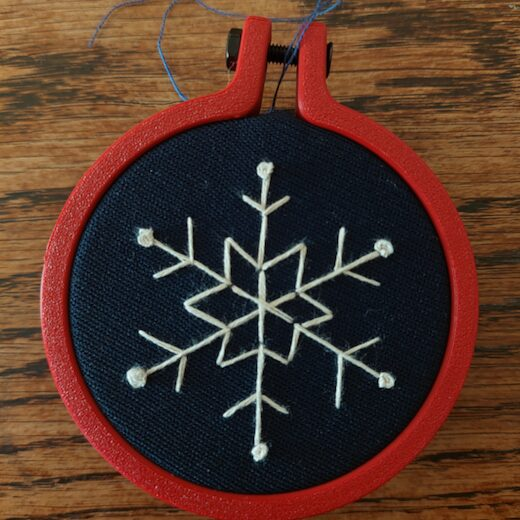
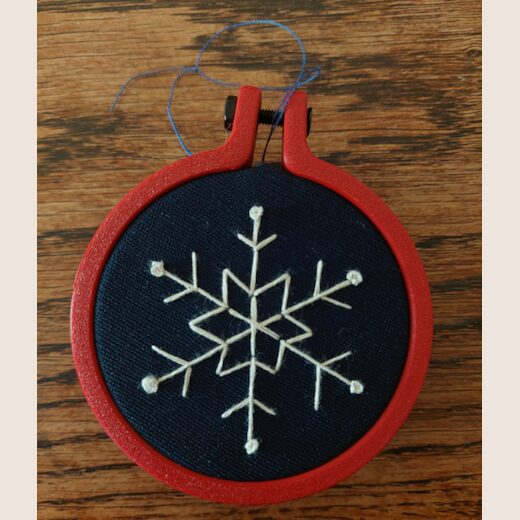
Boutique : ordre et noms des collections, carte offre 3 minis, minis en boules entières
- Collections : Noël, Personnages et animaux, Passif-agressif, Accessoires
- Noël : carte « 3 minis au choix » dans la grille (prix Supabase, prix
  normal barré calculé), à la place du bandeau
- Minis : photos montrant la boule entière avec son accroche (fond uni),
  étiquette « Boule à suspendre » ; ovales sur le même fond
- Vignettes de collection à hauteur égale (intro limitée à 2 lignes) ;
  Personnages et animaux : 3 photos distinctes
- Textes : Freddie (paroles cultes), la fille aux cheveux (technique des
  cheveux en relief, étiquette « Cheveux en relief ») ; ovales 13,5 × 20 cm

Claude-Session: https://claude.ai/code/session_015QeqxFQgaAZggYLjUjAvWV

diff --git a/components/catalog.js b/components/catalog.js
@@ -45,37 +45,16 @@ const LPS_CATALOG = {
   /* Offres groupées : X articles du même groupe, au choix, pour un prix fixe
      (prix dans Supabase : bundle.<id>). */
   bundles: {
-    minis: { size: 3, label: "Offre 3 minis", hint: "3 minis au choix" },
+    minis: {
+      size: 3,
+      label: "Offre 3 minis",
+      hint: "3 minis au choix",
+      cardTitle: "3 minis au choix",
+      cardText: "Sapin, flocon, houx : mélangez comme vous voulez, en cercle rouge ou doré. La remise s'applique toute seule dans le panier.",
+    },
   },
 
   collections: [
-    {
-      id: "mots-piquants",
-      cover: [
-        { src: "./images/covers/grand-mot-fleur-01.jpg" },
-        { src: "./images/covers/embroidery-petit-mot.jpg" },
-        { src: "./images/covers/embroidery-grand-mot.jpg" },
-      ],
-      title: "Les mots piquants",
-      icon: "✂",
-      intro: "Petit coup de gueule élégant.",
-      products: ["petit", "grand"],
-      footnote:
-        "Les kits DIY incluent une fiche tuto, le tissu imprimé avec le motif, le cercle à broder, assez de fil et une aiguille.",
-    },
-    {
-      id: "motifs-atelier",
-      cover: [
-        { src: "./images/covers/atelier-freddie.jpg" },
-        { src: "./images/covers/atelier-fille-cheveux.jpg" },
-        { src: "./images/covers/accessoire-oreilles-chat.jpg" },
-        { src: "./images/covers/embroidery-petit-chat.jpg" },
-      ],
-      title: "Les motifs de l'atelier",
-      icon: "🎨",
-      intro: "Des motifs originaux, introuvables ailleurs. De nouveaux arrivent régulièrement.",
-      products: ["fille-cheveux", "freddie", "chat"],
-    },
     {
       id: "noel",
       title: "Noël",
@@ -87,8 +66,35 @@ const LPS_CATALOG = {
         { src: "./images/covers/noel-mini-houx.jpg" },
         { src: "./images/covers/noel-chocolat-chaud.jpg" },
       ],
-      products: ["noel-couronne", "noel-chocolat", "noel-sapin", "noel-flocon", "noel-houx"],
+      /* "@offer:<bundle>" = carte de l'offre groupée à cet endroit de la grille */
+      products: ["noel-couronne", "noel-chocolat", "@offer:minis", "noel-sapin", "noel-flocon", "noel-houx"],
       offerBundle: "minis",
+    },
+    {
+      id: "personnages-et-animaux",
+      cover: [
+        { src: "./images/covers/atelier-fille-cheveux.jpg" },
+        { src: "./images/covers/atelier-freddie.jpg" },
+        { src: "./images/covers/embroidery-petit-chat.jpg" },
+      ],
+      title: "Personnages et animaux",
+      icon: "🎨",
+      intro: "Des motifs originaux, introuvables ailleurs.",
+      products: ["fille-cheveux", "freddie", "chat"],
+    },
+    {
+      id: "passif-agressif",
+      cover: [
+        { src: "./images/covers/grand-mot-fleur-01.jpg" },
+        { src: "./images/covers/embroidery-petit-mot.jpg" },
+        { src: "./images/covers/embroidery-grand-mot.jpg" },
+      ],
+      title: "Passif-agressif",
+      icon: "✂",
+      intro: "Petit coup de gueule élégant.",
+      products: ["petit", "grand"],
+      footnote:
+        "Les kits DIY incluent une fiche tuto, le tissu imprimé avec le motif, le cercle à broder, assez de fil et une aiguille.",
     },
     {
       id: "accessoires",
@@ -160,13 +166,14 @@ const LPS_CATALOG = {
     "fille-cheveux": {
       type: "broderie",
       label: "La fille aux cheveux",
-      tag: { icon: "📦", text: "Motif d'une ancienne box" },
+      tag: { icon: "✨", text: "Cheveux en relief" },
       image: "./images/atelier-fille-cheveux.jpg",
       thumb: "./images/thumbs/atelier-fille-cheveux.jpg",
       imageAlt: "Broderie sur cercle ovale : silhouette en robe bleue au vent, grand chapeau roux et longs cheveux dorés en fils libres",
       gallery: [{ src: "./images/atelier-fille-cheveux.jpg", alt: "La fille aux cheveux, broderie sur cercle ovale", rotation: 0 }],
-      description: "Robe au vent, grand chapeau et cheveux dorés en fils libres : une silhouette pleine de mouvement.",
+      description: "Brodez des cheveux en fils libres qui s'envolent au vent : une technique toute simple pour donner du relief et du mouvement à votre broderie.",
       formats: ["kit", "fini"],
+      sizeText: "Ovale 13,5 × 20 cm",
     },
     freddie: {
       type: "broderie",
@@ -176,15 +183,16 @@ const LPS_CATALOG = {
       thumb: "./images/thumbs/atelier-freddie.jpg",
       imageAlt: "Broderie sur cercle ovale : chanteur poing levé en veste jaune, avec une liste de souhaits brodée « I want… »",
       gallery: [{ src: "./images/atelier-freddie.jpg", alt: "Freddie, broderie sur cercle ovale", rotation: 0 }],
-      description: "Poing levé, veste jaune et une liste de souhaits bien cochée : pour celles et ceux qui veulent tout. Grand format, sur cercle ovale.",
+      description: "Poing levé, veste jaune et ses paroles cultes à cocher : un hommage brodé au plus grand des showmen.",
       formats: ["kit", "fini"],
+      sizeText: "Ovale 13,5 × 20 cm",
     },
 
     /* ── Noël ── */
     "noel-sapin": {
       type: "broderie",
       label: "Mini sapin doré",
-      tag: { icon: "🎄", text: "Mini" },
+      tag: { icon: "🎄", text: "Boule à suspendre" },
       image: "./images/noel-mini-sapin.jpg",
       thumb: "./images/thumbs/noel-mini-sapin.jpg",
       imageAlt: "Mini sapin brodé au fil doré sur tissu bleu nuit, dans un cercle rouge",
@@ -198,7 +206,7 @@ const LPS_CATALOG = {
     "noel-flocon": {
       type: "broderie",
       label: "Mini flocon",
-      tag: { icon: "❄", text: "Mini" },
+      tag: { icon: "❄", text: "Boule à suspendre" },
       image: "./images/noel-mini-flocon.jpg",
       thumb: "./images/thumbs/noel-mini-flocon.jpg",
       imageAlt: "Mini flocon brodé en blanc sur tissu bleu nuit, dans un cercle rouge",
@@ -212,7 +220,7 @@ const LPS_CATALOG = {
     "noel-houx": {
       type: "broderie",
       label: "Mini houx",
-      tag: { icon: "🍃", text: "Mini" },
+      tag: { icon: "🍃", text: "Boule à suspendre" },
       image: "./images/noel-mini-houx.jpg",
       thumb: "./images/thumbs/noel-mini-houx.jpg",
       imageAlt: "Mini brin de houx brodé en vert avec trois baies rouges, sur toile écrue, dans un cercle rouge",

diff --git a/components/catalog-render.js b/components/catalog-render.js
@@ -59,7 +59,7 @@
           ${galleryButton(p, "card-photo-btn", "🖼 Voir les photos")}
         </div>`
       : `<div class="card-thumb-wrap card-thumb-wrap--empty" aria-hidden="true"><span>📷 Photo à venir</span></div>`;
-    const info = [p.diameterCm ? `Diamètre : ${String(p.diameterCm).replace(".", ",")} cm` : "", p.delays ? `Expédition estimée : ${p.delays}` : ""]
+    const info = [p.sizeText || (p.diameterCm ? `Diamètre : ${String(p.diameterCm).replace(".", ",")} cm` : ""), p.delays ? `Expédition estimée : ${p.delays}` : ""]
       .filter(Boolean)
       .join(" · ");
     const formats = p.formats || ["kit", "fini"];
@@ -127,6 +127,18 @@
         </div>
         <button class="btn btn-outline" type="button" data-add-accessory-card="${esc(id)}">Ajouter au panier</button>
       </div>
+    </article>`;
+  }
+
+  /* Carte « offre groupée » placée dans la grille (catalog.js : "@offer:<id>") */
+  function offerCard(bundleId) {
+    const bundle = (LPS_CATALOG.bundles || {})[bundleId];
+    if (!bundle) return "";
+    return `<article class="card card--offer" role="listitem" data-offer-card="${esc(bundleId)}" hidden>
+      <div class="card-tag card-tag--special"><span aria-hidden="true">🎁</span> Offre</div>
+      <p class="offer-title">${esc(bundle.cardTitle || bundle.hint || bundle.label)}</p>
+      <p class="offer-price"><span data-offer-price></span> <s class="offer-was" data-offer-was></s></p>
+      <p class="product-desc">${esc(bundle.cardText || "")}</p>
     </article>`;
   }
 
@@ -205,18 +217,18 @@
   function collectionView(c) {
     const cards = (c.products || [])
       .map((id) => {
+        if (String(id).startsWith("@offer:")) return offerCard(String(id).slice(7));
         const p = products[id];
         if (!p) return "";
         return p.type === "accessoire" ? accessoryCard(id, p) : broderieCard(id, p);
       })
       .filter(Boolean);
-    if (!cards.length || c.status === "soon") cards.push(soonCard(c));
+    if (!cards.some((html) => !html.includes("data-offer-card")) || c.status === "soon") cards.push(soonCard(c));
     return `<section class="collection" id="collection-${esc(c.id)}" data-collection-view="${esc(c.id)}" aria-labelledby="collection-title-${esc(c.id)}" hidden>
       <a class="collection-back" href="#produits"><span aria-hidden="true">←</span> Toutes les collections</a>
       <div class="collection-head">
         <h3 class="collection-title" id="collection-title-${esc(c.id)}" tabindex="-1"><span aria-hidden="true">${esc(c.icon)}</span> ${esc(c.title)}</h3>
         ${c.intro ? `<p class="collection-intro">${esc(c.intro)}</p>` : ""}
-        ${c.offerBundle ? `<p class="collection-offer" data-bundle-hint="${esc(c.offerBundle)}" data-bundle-style="offer" hidden></p>` : ""}
       </div>
       <div class="cards cards-3" role="list">${cards.join("")}</div>
       ${c.footnote ? `<p class="accessory-note">${esc(c.footnote)}</p>` : ""}

diff --git a/script.js b/script.js
@@ -54,8 +54,24 @@ function syncDisplayedPrices() {
     if (el.hidden) return;
     el.textContent =
       el.getAttribute("data-bundle-style") === "offer"
-        ? `🎁 Offre : ${bundle.hint || bundle.label} pour ${formatEuro(price)}`
+        ? `🎁 ${bundle.hint || bundle.label} : ${formatEuro(price)}`
         : `🎁 ${bundle.hint || bundle.label} : ${formatEuro(price)}`;
+  });
+
+  /* Carte offre : prix de l'offre et prix normal barré (somme des moins chers) */
+  document.querySelectorAll("[data-offer-card]").forEach((card) => {
+    const id = card.getAttribute("data-offer-card");
+    const bundle = typeof BUNDLES !== "undefined" ? BUNDLES[id] : null;
+    const price = typeof BUNDLE_PRICES !== "undefined" ? BUNDLE_PRICES[id] : null;
+    card.hidden = !(bundle && isPrice(price));
+    if (card.hidden) return;
+    const unitPrices = Object.entries(CATALOG_PRODUCTS)
+      .filter(([, p]) => p.bundle === id)
+      .flatMap(([pid]) => Object.values(PRODUCT_BASE_EUR[pid] || {}).filter(isPrice));
+    const normal = unitPrices.length ? Math.min(...unitPrices) * bundle.size : null;
+    card.querySelector("[data-offer-price]").textContent = formatEuro(price);
+    const was = card.querySelector("[data-offer-was]");
+    was.textContent = normal && normal > price ? `au lieu de ${formatEuro(normal)}` : "";
   });
 
   document.querySelectorAll("[data-price-shipping]").forEach((el) => {

diff --git a/styles.css b/styles.css
@@ -2883,3 +2883,44 @@ input[type="number"]::-webkit-inner-spin-button {
   font-weight: 600;
   color: var(--rose);
 }
+
+/* Vignettes de collection : même hauteur (texte limité à 2 lignes) */
+.collection-tile-intro {
+  display: -webkit-box;
+  -webkit-line-clamp: 2;
+  -webkit-box-orient: vertical;
+  overflow: hidden;
+}
+
+/* Carte « offre groupée » dans la grille */
+.card--offer {
+  justify-content: center;
+  gap: 0.5rem;
+  background: var(--rose-soft);
+  border-color: var(--rose);
+}
+
+.card--offer[hidden] {
+  display: none;
+}
+
+.offer-title {
+  margin: 0.4rem 0 0;
+  font-family: "Playfair Display", Georgia, serif;
+  font-size: 1.6rem;
+  font-weight: 700;
+  line-height: 1.15;
+}
+
+.offer-price {
+  margin: 0;
+  font-size: 1.5rem;
+  font-weight: 700;
+  color: var(--rose);
+}
+
+.offer-was {
+  font-size: 0.95rem;
+  font-weight: 500;
+  color: var(--muted);
+}
